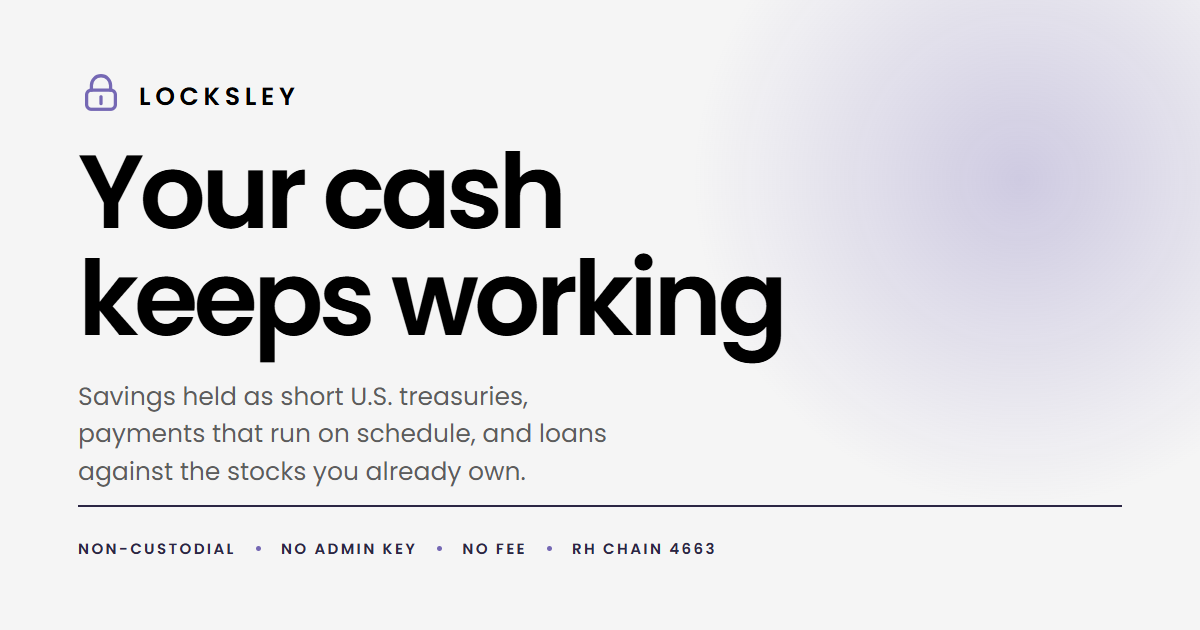
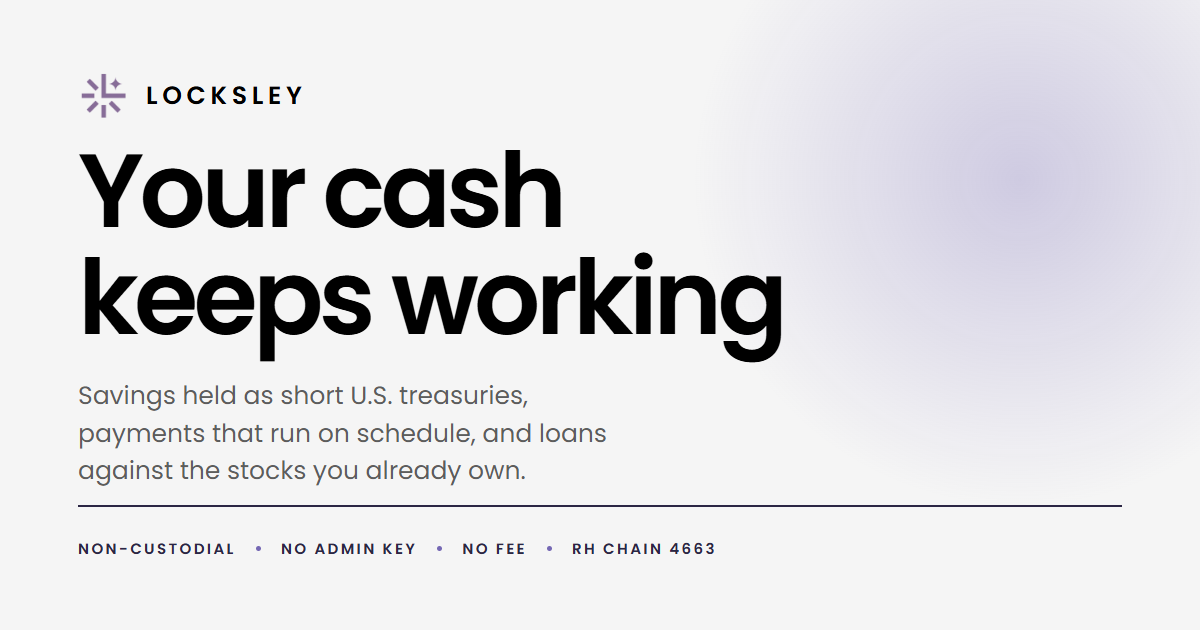
Adopt the supplied Locksley mark
Replaces the drawn padlock everywhere it appeared - favicon, app nav,
landing nav and drawer, social card - with the supplied L-burst mark,
cropped tight from its source and rendered at 512 and 256.

diff --git a/web/app/page.tsx b/web/app/page.tsx
@@ -134,10 +134,8 @@ export default function Page() {
       <header className="btop">
         <div className="bwrap btop-in">
           <span className="btop-logo">
-            {/* a padlock whose shackle is drawn as a bow — the name, twice over */}
-            <svg viewBox="0 0 24 24" fill="none" stroke="currentColor" strokeWidth="1.7" strokeLinecap="round" strokeLinejoin="round">
-              <path d="M7 10.5V8a5 5 0 0110 0v2.5" /><rect x="4.5" y="10.5" width="15" height="10" rx="2.5" /><path d="M12 14v3.5" />
-            </svg>
+            {/* eslint-disable-next-line @next/next/no-img-element -- static 256px mark */}
+            <img src="/logo.png" alt="" width={22} height={22} style={{ display: "block" }} />
             LOCKSLEY<i className="cur" />
           </span>
           <nav className="btabs">

diff --git a/web/app/home/page.tsx b/web/app/home/page.tsx
@@ -16,11 +16,8 @@ const Arrow = () => (
 );
 
 /** The padlock-and-bow mark, same as the app's nav. */
-const Mark = () => (
-  <svg viewBox="0 0 24 24" fill="none" stroke="currentColor" strokeWidth="1.7" strokeLinecap="round" strokeLinejoin="round" aria-hidden>
-    <path d="M7 10.5V8a5 5 0 0110 0v2.5" /><rect x="4.5" y="10.5" width="15" height="10" rx="2.5" /><path d="M12 14v3.5" />
-  </svg>
-);
+// eslint-disable-next-line @next/next/no-img-element -- a 256px static mark; next/image buys nothing here.
+const Mark = () => <img className="hal-mark" src="/logo.png" alt="" width={28} height={28} />;
 
 /** Tickers accepted as collateral. Real symbols off the catalogue, so the rail
  *  states a fact rather than borrowing someone else's logo. */

diff --git a/web/app/home/home.css b/web/app/home/home.css
@@ -200,3 +200,6 @@ html:has(.hal), html:has(.hal) body { background: #f5f5f5; }
 .hal-foot-addr { font-family: ui-monospace, Menlo, monospace; font-size: 12px; color: rgba(0,0,0,.45); margin-left: 6px; }
 .hal-foot-brand p { margin: 14px 0 12px; max-width: 32ch; font-size: 14px; line-height: 1.6; color: rgba(0,0,0,.6); }
 .hal-foot-live { font-size: 12px; font-weight: 600; color: #0b7d46; letter-spacing: .04em; }
+
+.hal-mark { width: 28px; height: 28px; display: block; }
+
